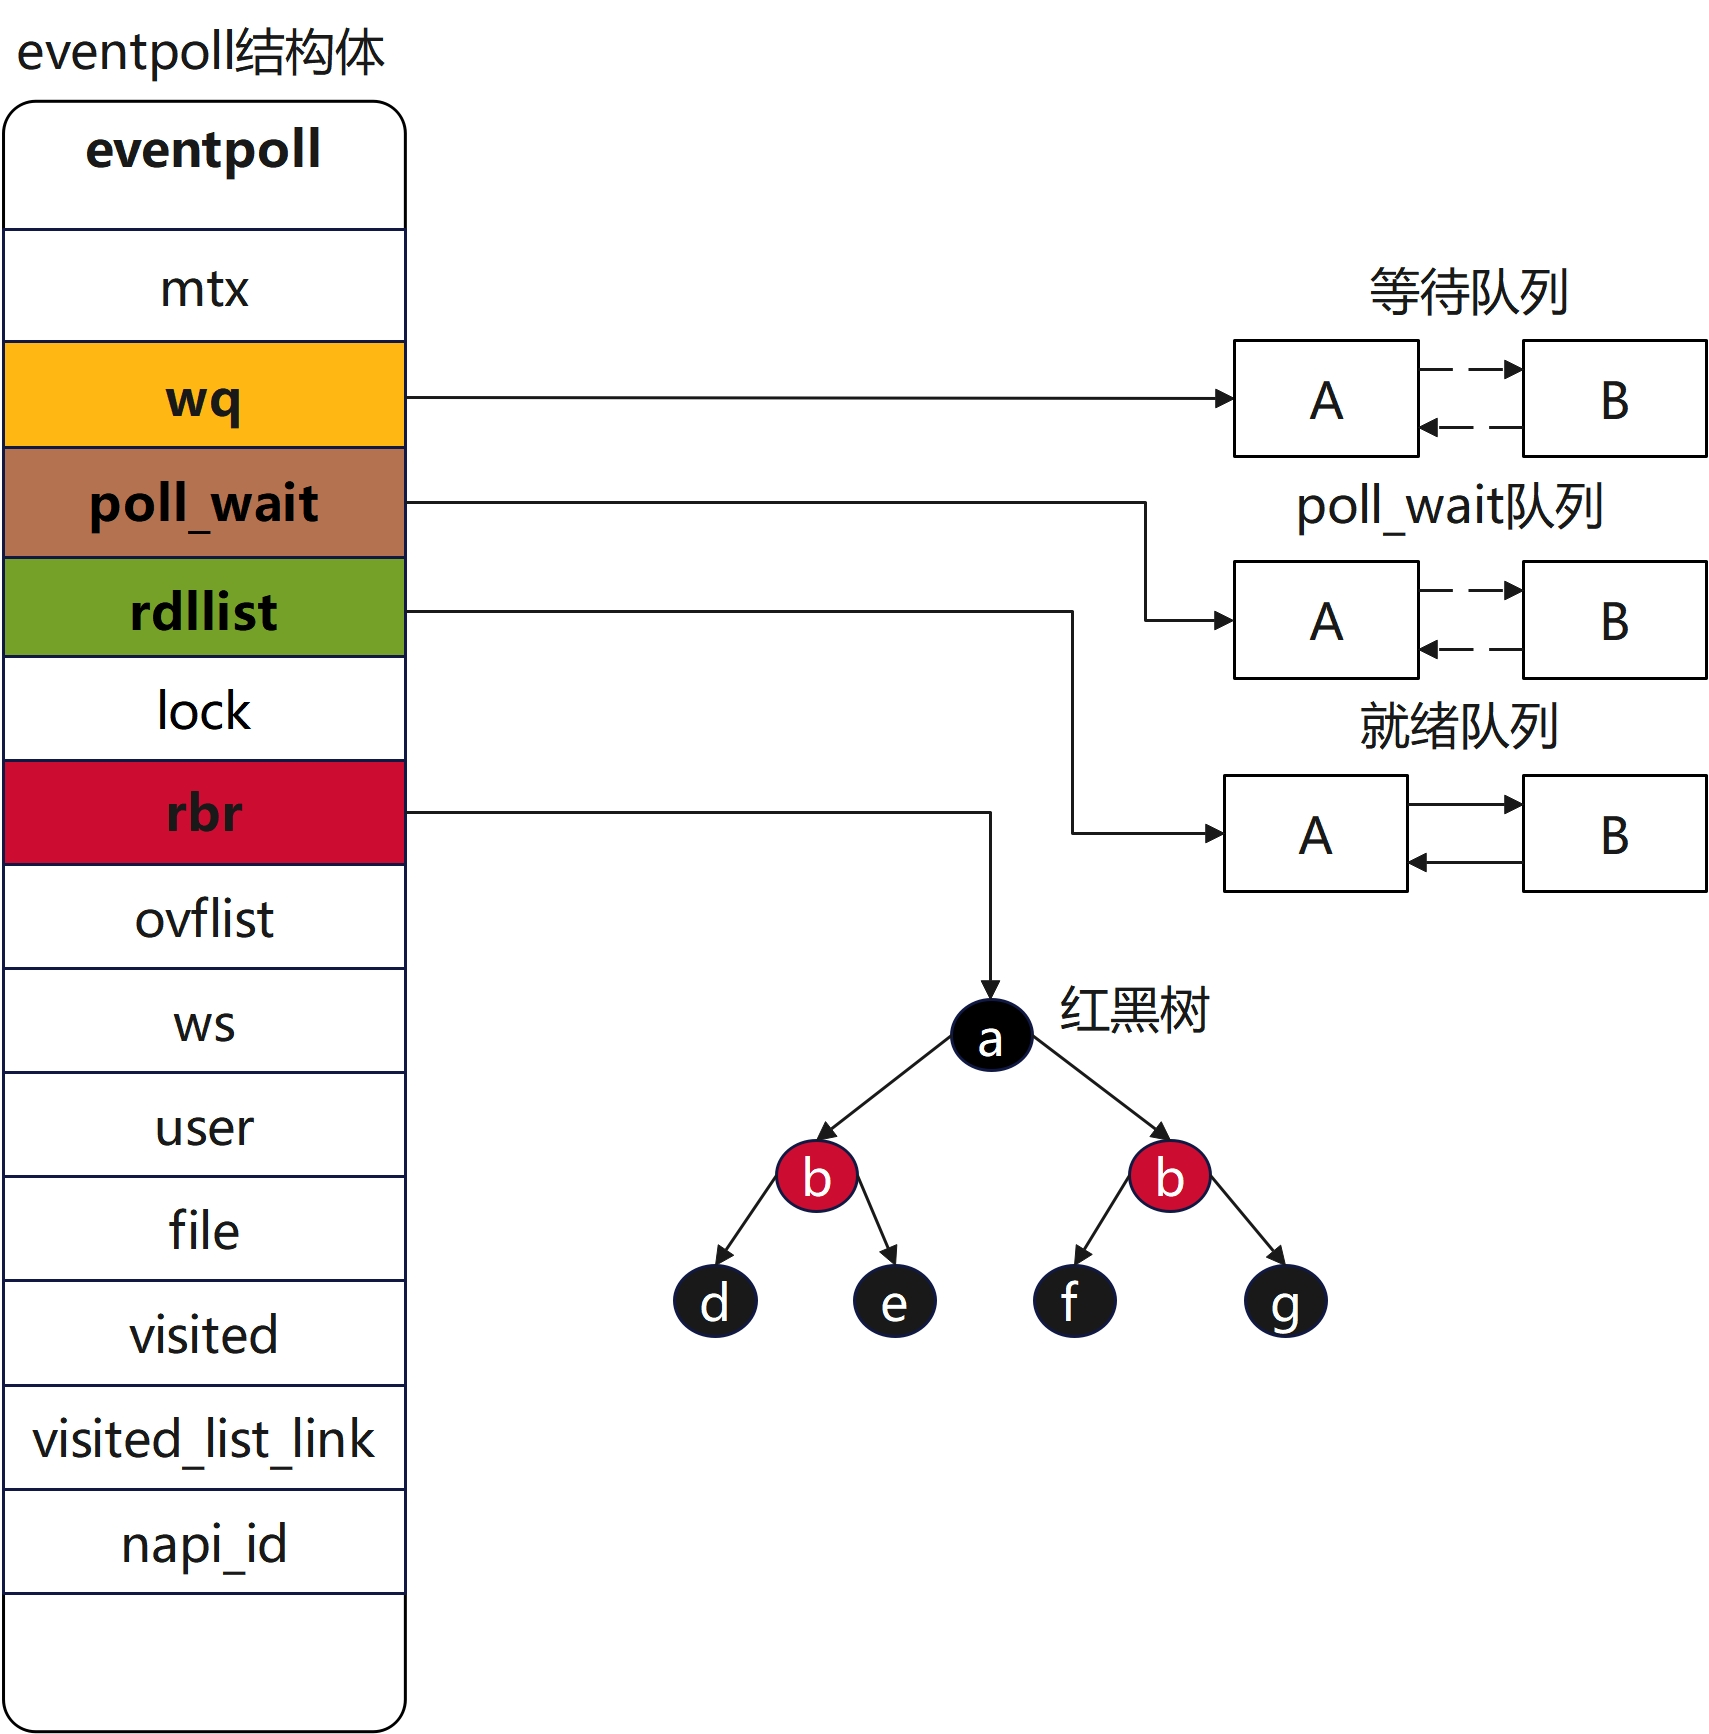
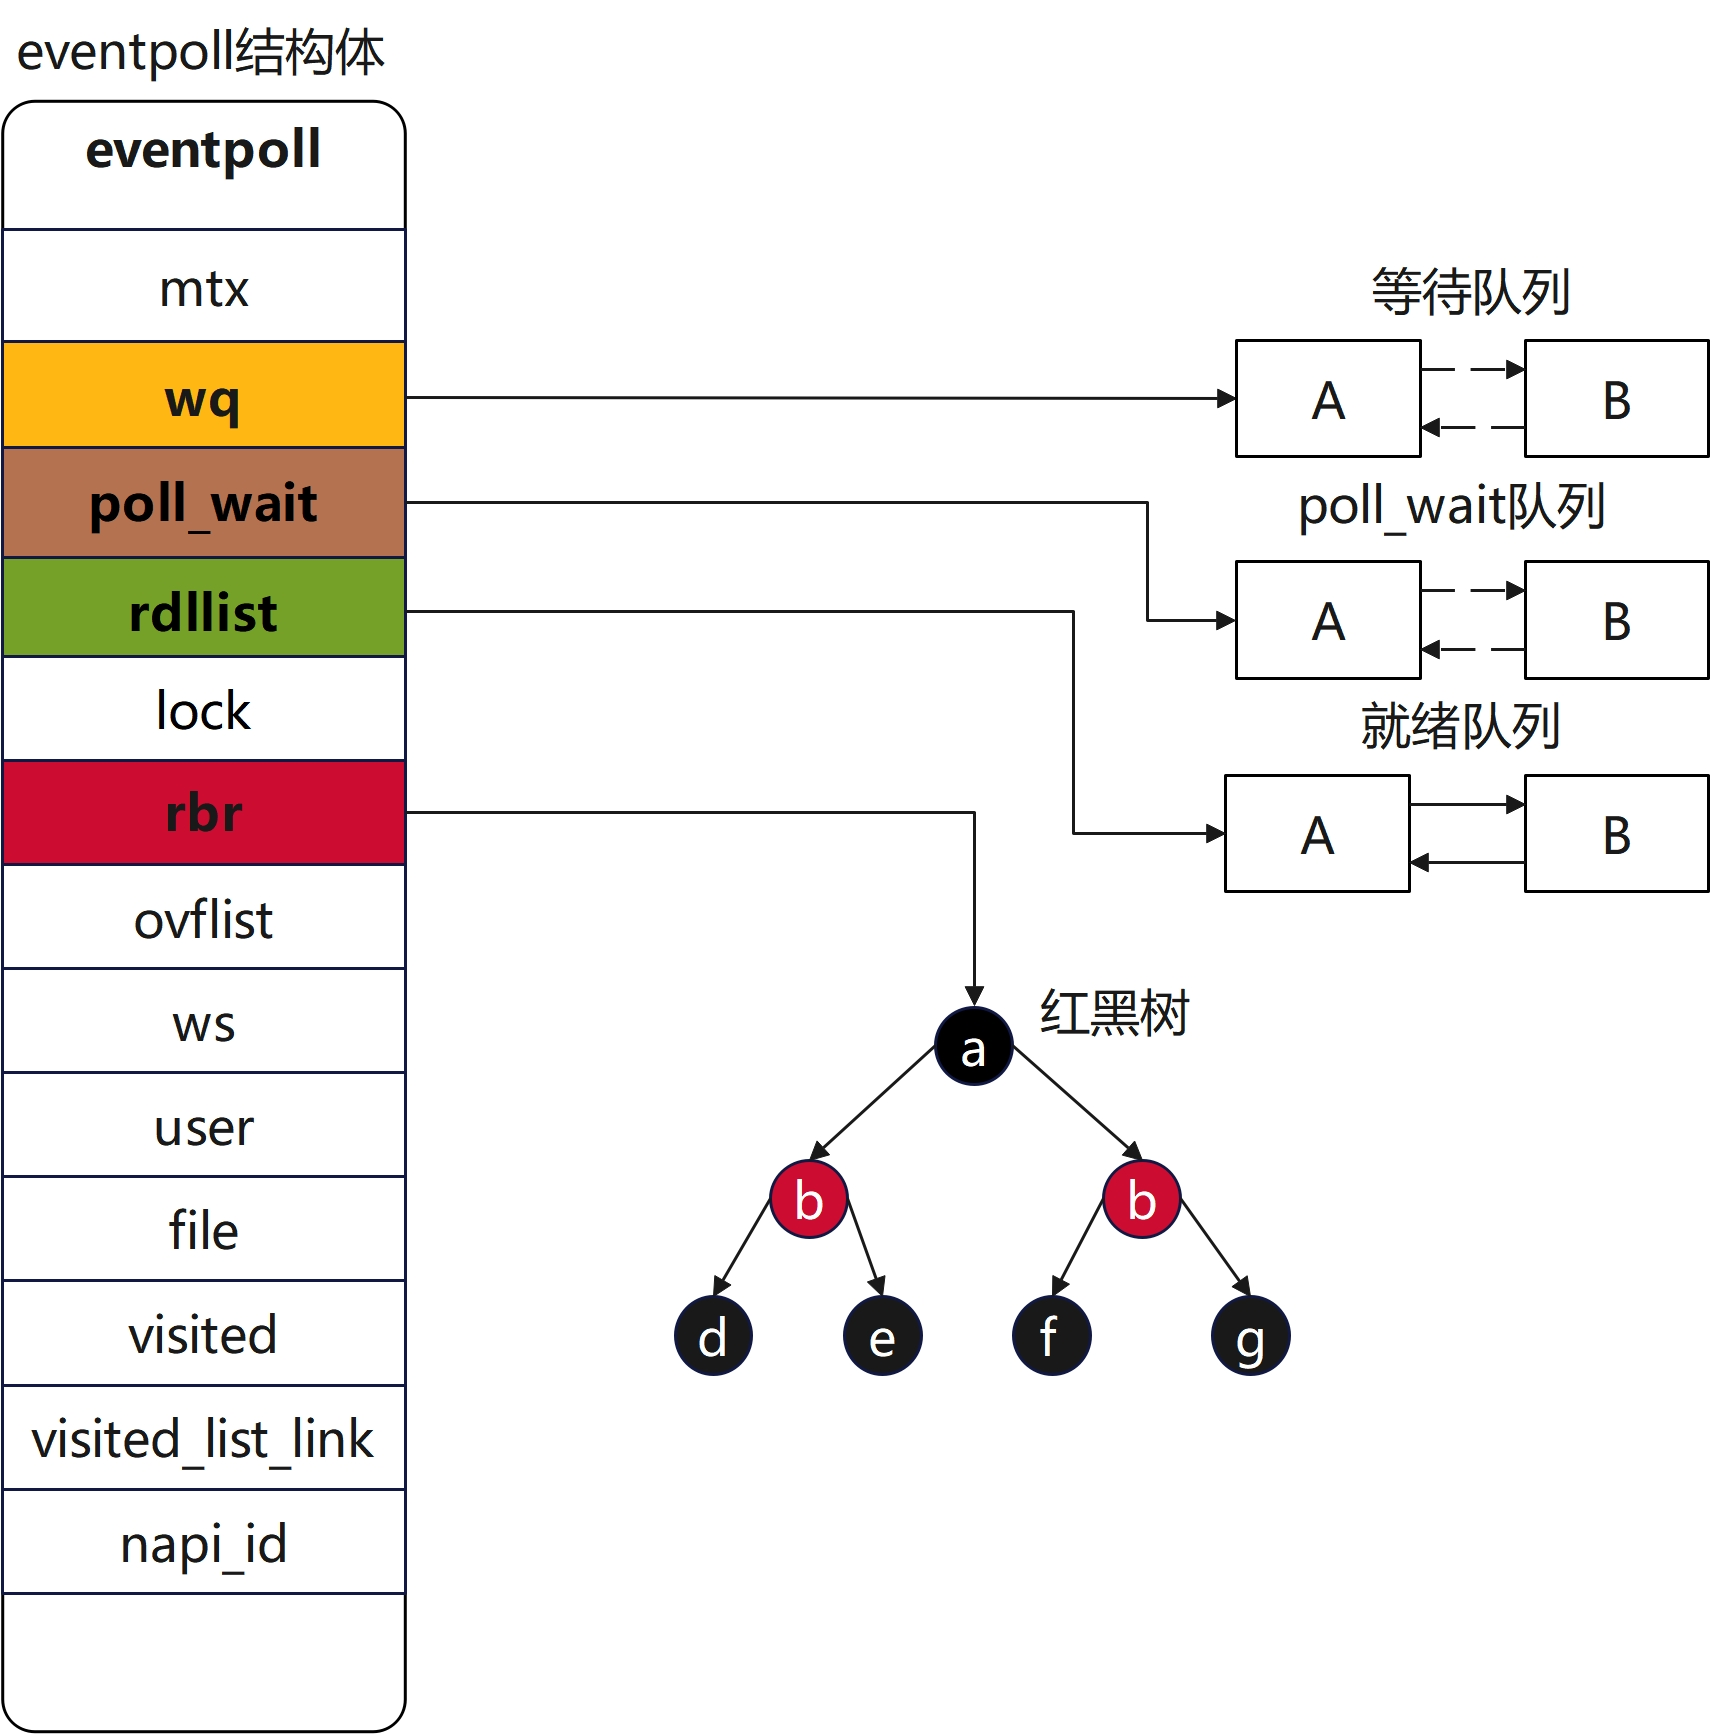
upload

diff --git a/06_Linux/03_IO模型/01_IO多路复用模型/02_epoll原理分析/01_epoll接口原理分析.md b/06_Linux/03_IO模型/01_IO多路复用模型/02_epoll原理分析/01_epoll接口原理分析.md
@@ -200,7 +200,7 @@ static int ep_alloc(struct eventpoll **pep)
 
 `ep_alloc`函数创建申请结构体的内存空间，将结构体的各个成员初始化，其中需要注意的是`user`保存的是当前进程对应的用户`ID`
 
-#### **`eventpoll`结构图**（待完成）
+#### **`eventpoll`结构图**
 
 <img src=".\img\struct_eventpoll.jpg" alt="struct_eventpoll" style="zoom: 33%;" />
 
@@ -246,7 +246,7 @@ struct epitem {
 };
 ```
 
-#### 创建`epitem`节点(待完成)
+#### 创建`epitem`节点
 
 `ep_insert`函数
 
@@ -360,7 +360,7 @@ error_create_wakeup_source:
 2. 然后将`epi`添加到红黑树中
 3. 将节点添加到对应的就绪链表、等待链表，以及设置回调函数
 
-#### **`epitem`结构图(待完成)**
+#### **`epitem`结构图**
 
 <img src=".\img\struct_epitem.jpg" alt="struct_epitem" style="zoom: 33%;" />
 
@@ -395,7 +395,7 @@ struct eppoll_entry
 
 
 
-## 3.2 epoll红黑树操作接口
+## 3.2 `epoll`红黑树操作接口
 
 `epoll`模块在内部维护了一个红黑树的数据结构用来管理`epoll`节点，红黑树的节点类型为`struct epitem`
 
@@ -492,7 +492,7 @@ static struct epitem *ep_find(struct eventpoll *ep, struct file *file, int fd)
 
 ### 3) 插入节点
 
-**`ep_rbtree_insert`函数（待完成）**
+**`ep_rbtree_insert`函数**
 
 插入新的节点
 
@@ -545,7 +545,7 @@ static void ep_rbtree_insert(struct eventpoll *ep, struct epitem *epi)
 
 ### 4) 删除节点
 
-**`ep_remove`函数(待完成)**
+**`ep_remove`函数**
 
 从红黑树中删除节点
 
@@ -634,7 +634,7 @@ static int ep_modify(struct eventpoll *ep, struct epitem *epi,
 
 
 
-## 3.3 关键链表相关接口
+## 3.3 关键链表及相关接口
 
 ### 1) `epitem->ovflist`链表
 
@@ -659,7 +659,9 @@ static __poll_t ep_send_events_proc(struct eventpoll *ep, struct list_head *head
 }
 ```
 
-<img src=".\img\03_就绪队列.jpg" alt="03_就绪队列" style="zoom: 67%;" />
+**等待链表关系图**
+
+<img src=".\img\03_就绪队列.jpg" alt="03_就绪队列" style="zoom: 50%;" />
 
 ### 3) `epitem->pwqlist`链表
 
@@ -835,9 +837,11 @@ static __poll_t ep_send_events_proc(struct eventpoll *ep, struct list_head *head
 
 
 
-## 5. epoll基本流程
+## 5. `epoll`基本流程
 
-<img src=".\img\02_epoll接口流程.jpg" alt="02_epoll接口流程" />
+**`epoll`基本流程图**
+
+<img src=".\img\02_epoll接口流程.jpg" alt="02_epoll接口流程" style="zoom: 33%;" />
 
 
 
